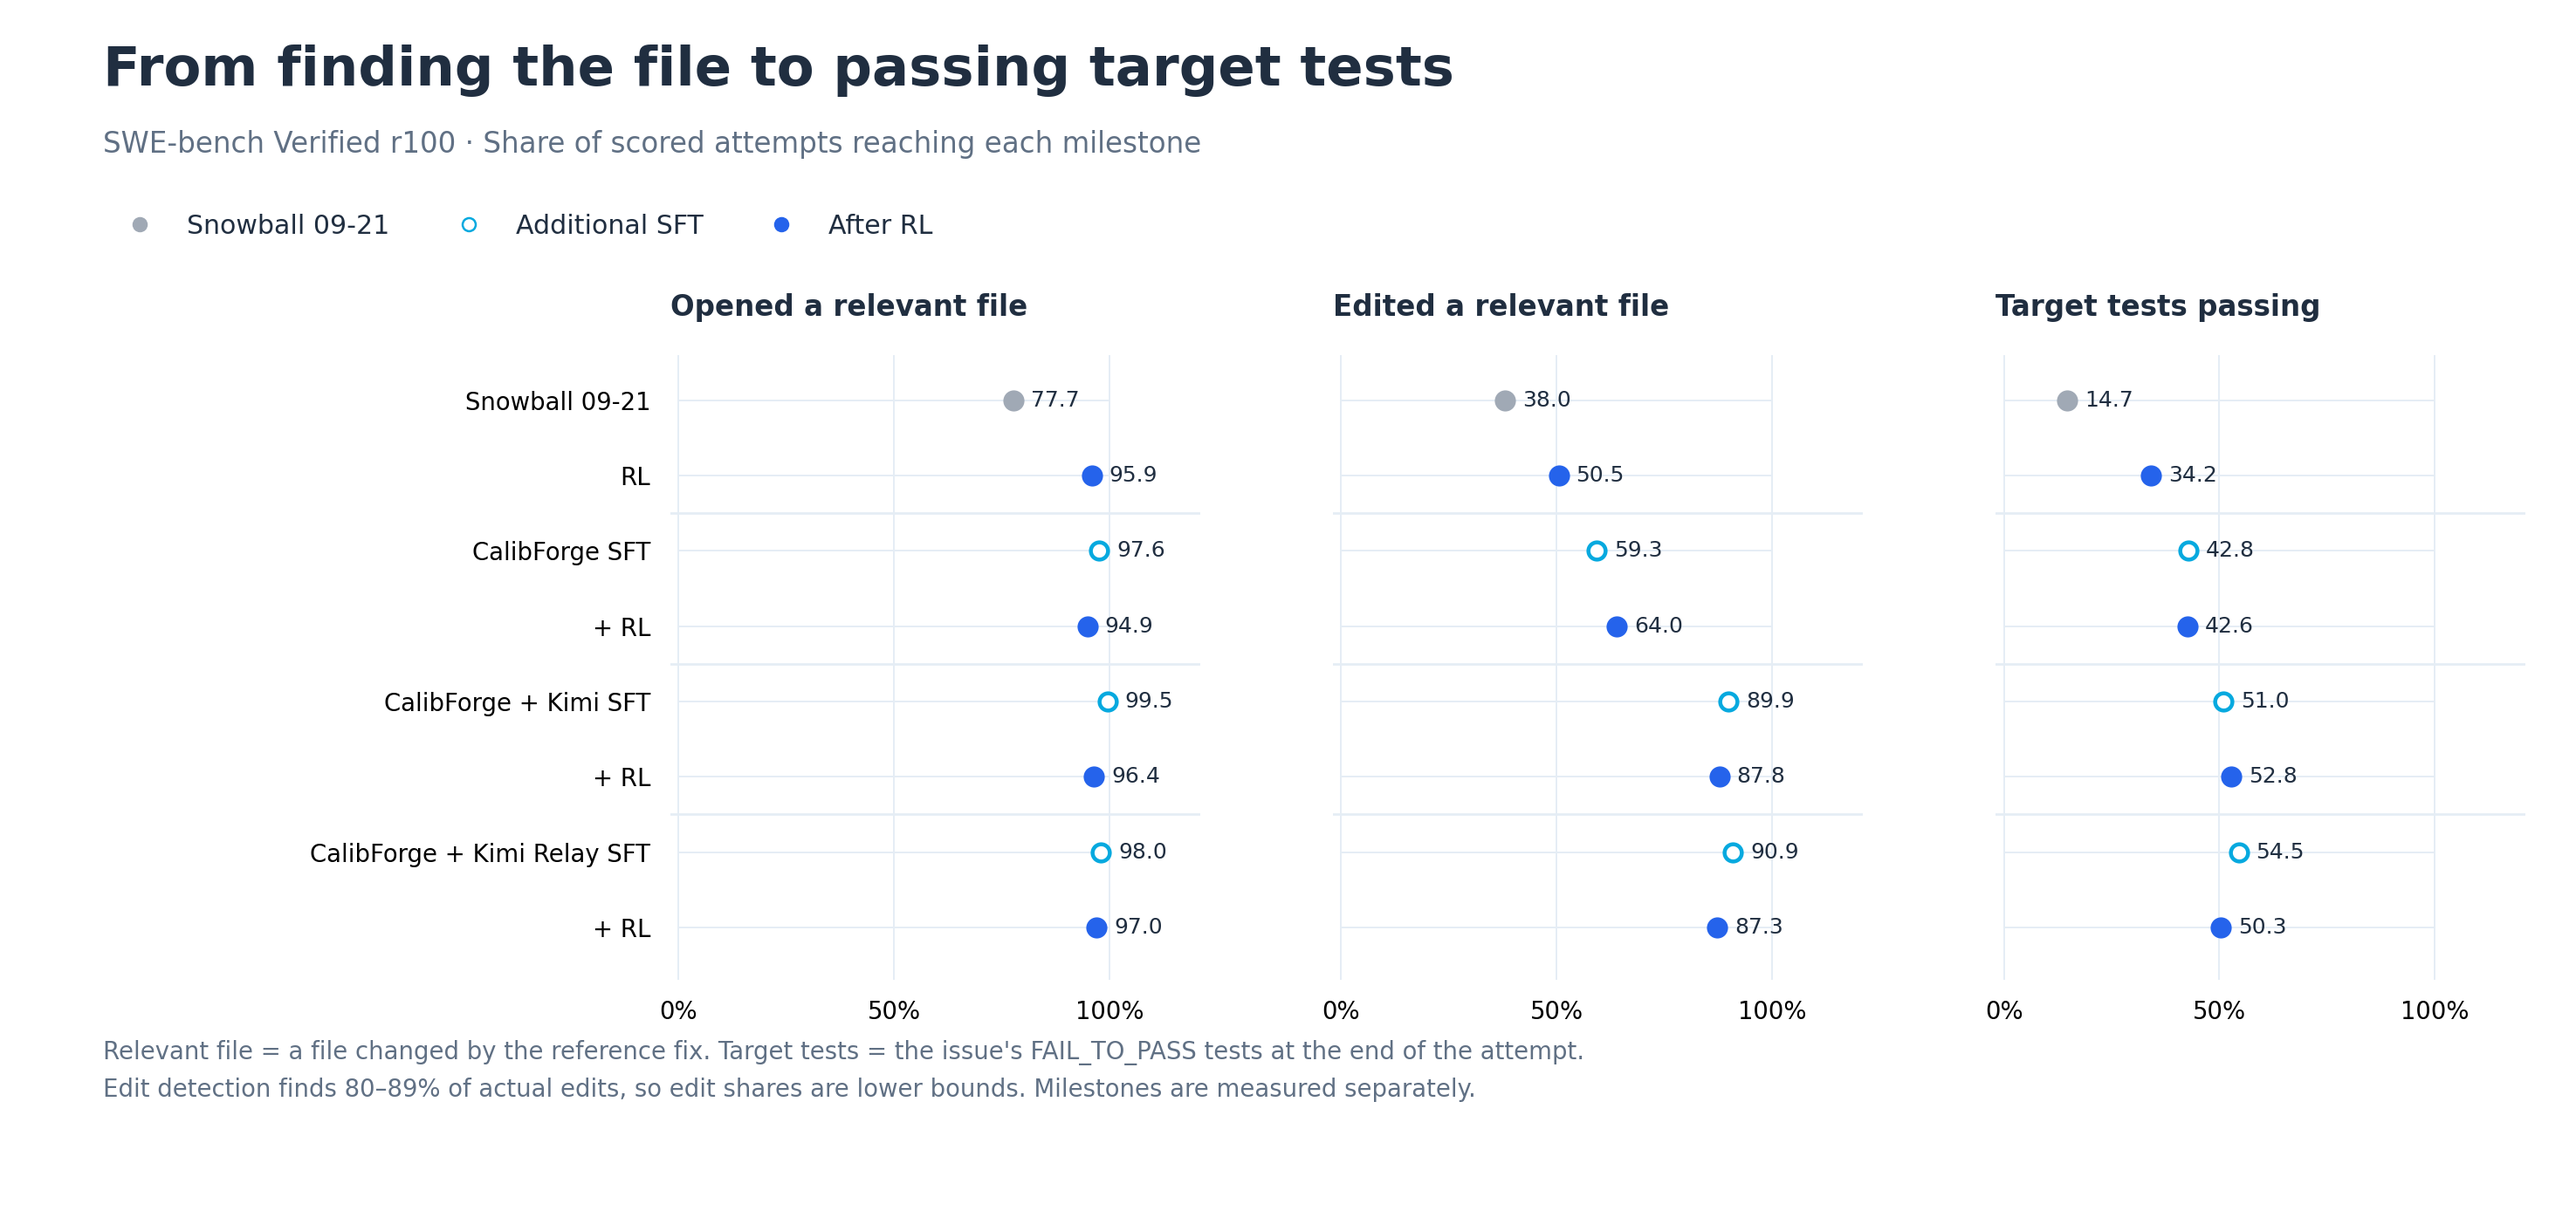
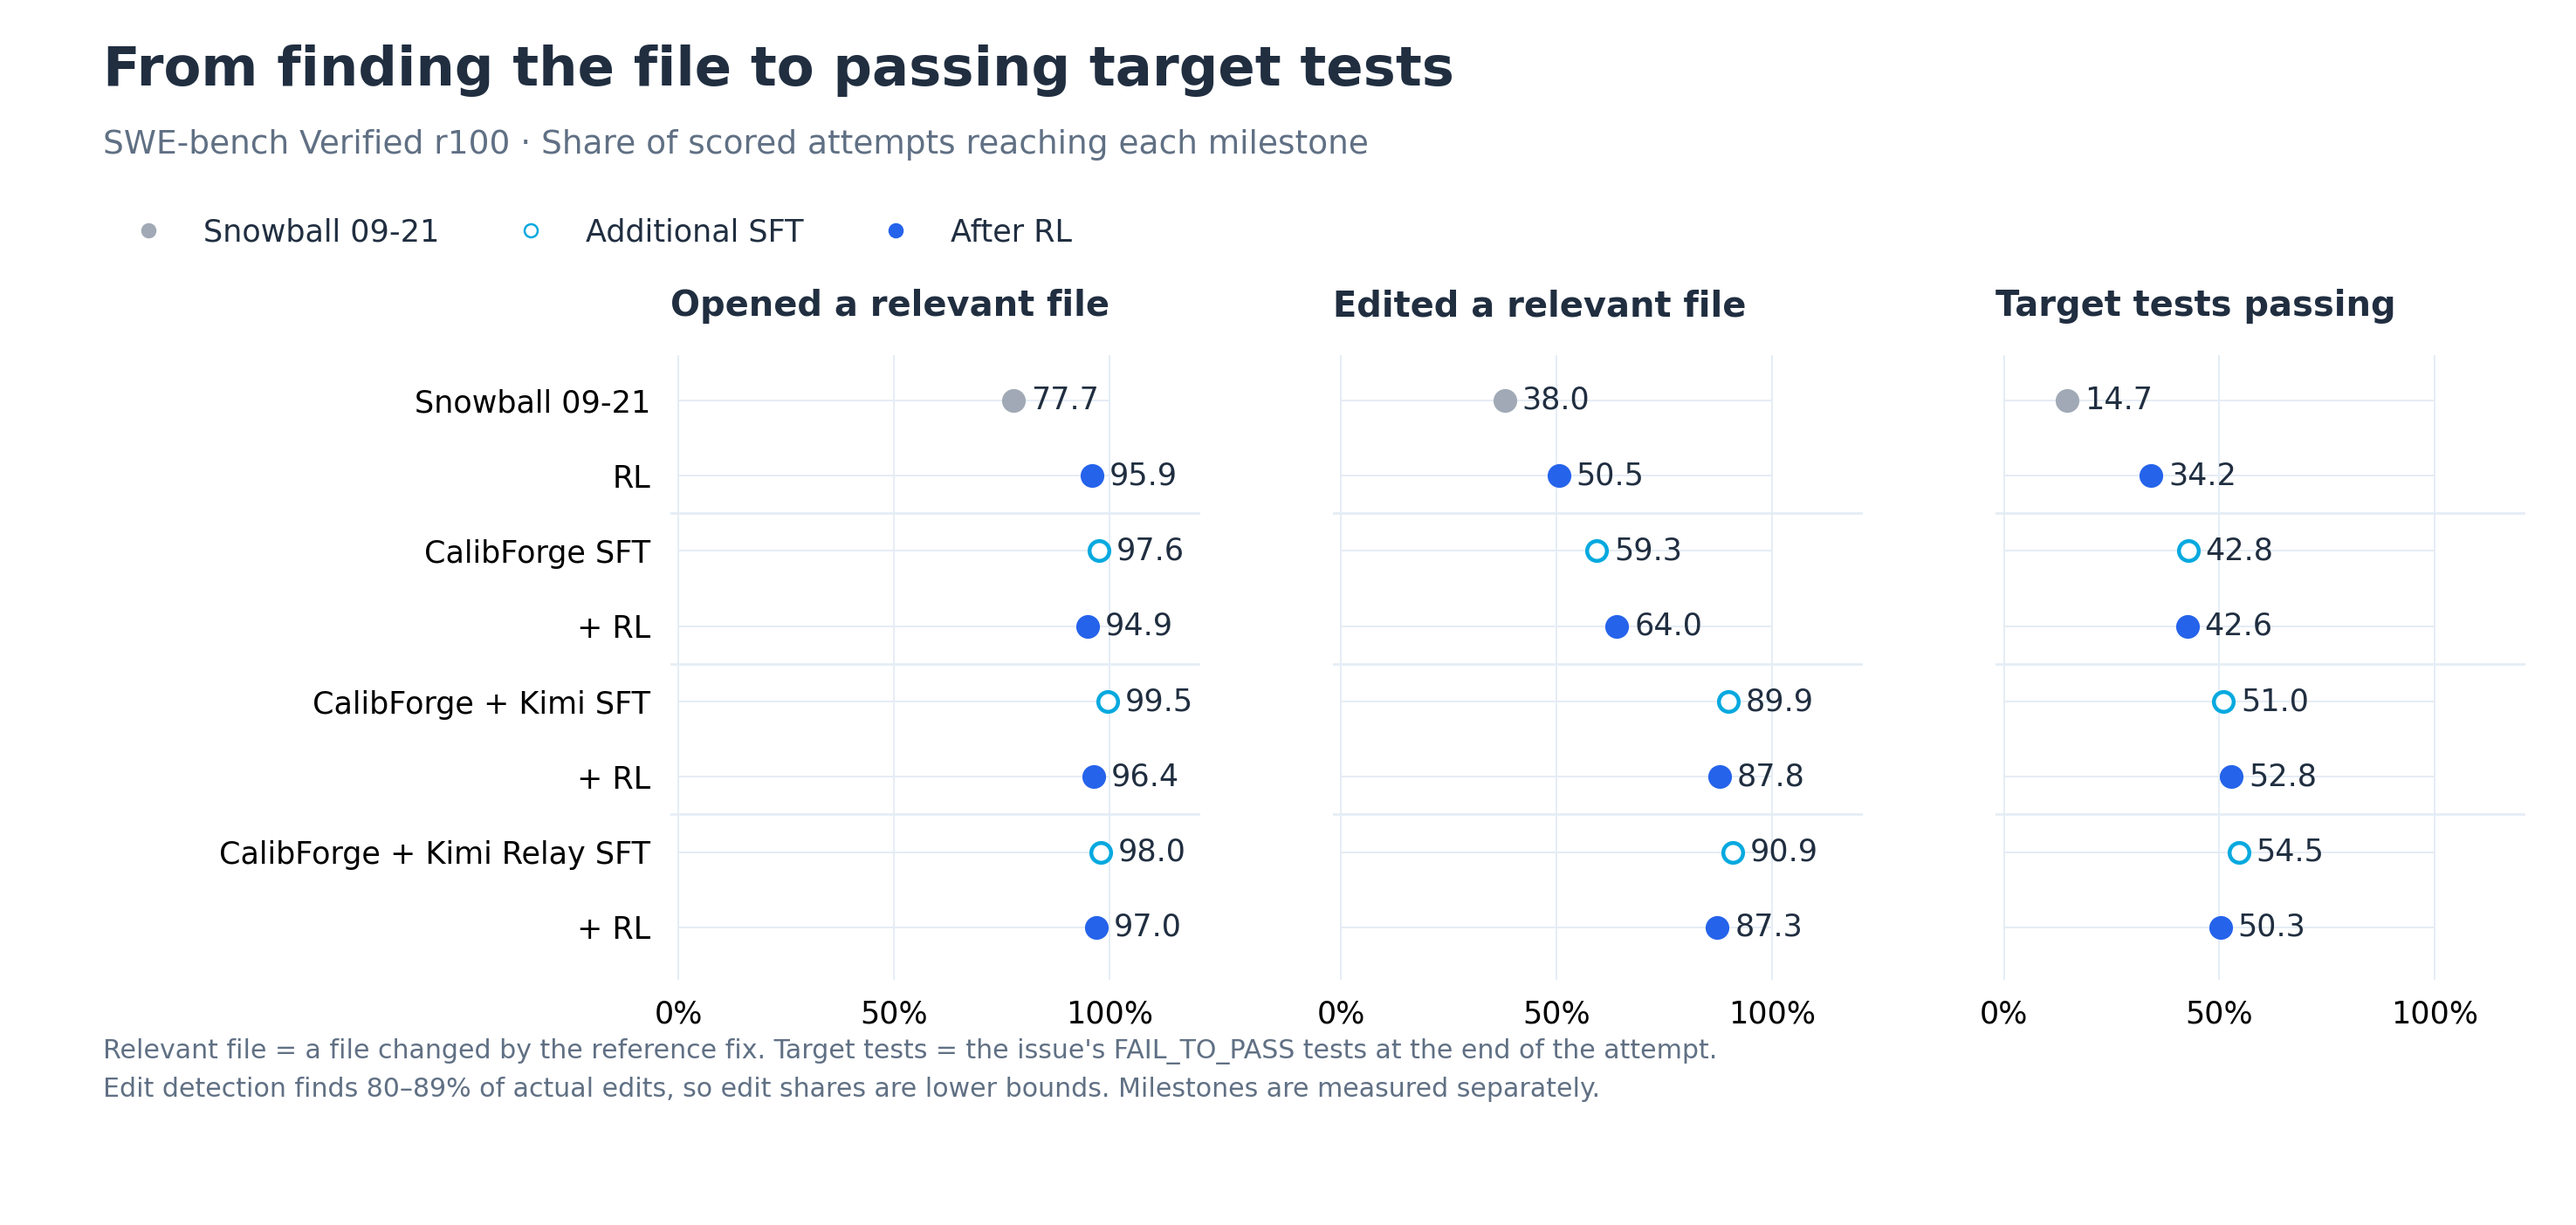
Enlarge trace figure typography and simplify section introduction

diff --git a/scripts/render_snowball_trace_analysis.py b/scripts/render_snowball_trace_analysis.py
@@ -119,30 +119,30 @@ def swe_steps():
     fig.subplots_adjust(left=.26, right=.98, bottom=.20, top=.71, wspace=.25)
     fig.text(.04, .93, "From finding the file to passing target tests", fontsize=25, weight="bold")
     fig.text(.04, .875, "SWE-bench Verified r100 · Share of scored attempts reaching each milestone",
-             fontsize=13, color=MUTED)
+             fontsize=15, color=MUTED)
     from matplotlib.lines import Line2D
     fig.legend(handles=[
         Line2D([], [], marker="o", ls="", color="#a0a9b5", label="Snowball 09-21"),
         Line2D([], [], marker="o", ls="", color=CYAN, markerfacecolor="white", label="Additional SFT"),
         Line2D([], [], marker="o", ls="", color=BLUE, label="After RL"),
-    ], loc="upper left", bbox_to_anchor=(.035, .845), ncol=3, frameon=False, fontsize=12)
+    ], loc="upper left", bbox_to_anchor=(.035, .845), ncol=3, frameon=False, fontsize=14)
     for col, (ax, title) in enumerate(zip(axes, [
         "Opened a relevant file", "Edited a relevant file", "Target tests passing",
     ])):
-        ax.set_title(title, loc="left", fontsize=13, weight="bold", pad=18)
+        ax.set_title(title, loc="left", fontsize=16, weight="bold", pad=18)
         for row, vals in enumerate(values):
             n = vals[col]
             after_rl = row % 2 == 1
             color = BLUE if after_rl else ("#a0a9b5" if row == 0 else CYAN)
             ax.hlines(row, 0, 100, color=LINE, linewidth=.8, zorder=0)
-            ax.scatter(n, row, s=62, facecolors=color if after_rl or row == 0 else "white",
+            ax.scatter(n, row, s=82, facecolors=color if after_rl or row == 0 else "white",
                        edgecolors=color, linewidths=1.8, zorder=3)
-            ax.text(n + 4, row, f"{n:.1f}", va="center", fontsize=10, color=INK)
+            ax.text(n + 4, row, f"{n:.1f}", va="center", fontsize=14, color=INK)
         ax.set_xlim(-2, 121)
         ax.set_ylim(7.7, -.6)
         ax.set_xticks([0, 50, 100], ["0%", "50%", "100%"])
         ax.set_yticks(range(8), labels)
-        ax.tick_params(axis="both", length=0, labelsize=11, pad=9)
+        ax.tick_params(axis="both", length=0, labelsize=14, pad=9)
         ax.grid(axis="x", color=LINE, linewidth=.8)
         ax.set_axisbelow(True)
         for spine in ax.spines.values():
@@ -151,7 +151,7 @@ def swe_steps():
             ax.axhline(y, color=LINE, linewidth=1.1)
     fig.text(.04, .105, "Relevant file = a file changed by the reference fix. Target tests = the issue's FAIL_TO_PASS tests at the end of the attempt.\n"
              "Edit detection finds 80–89% of actual edits, so edit shares are lower bounds. Milestones are measured separately.",
-             fontsize=11, color=MUTED, linespacing=1.6)
+             fontsize=12, color=MUTED, linespacing=1.6)
     save(fig, "trace-swe-steps")
 
 

diff --git a/_posts/2026-10-21-turning-snowball-into-a-coding-agent.md b/_posts/2026-10-21-turning-snowball-into-a-coding-agent.md
@@ -277,8 +277,6 @@ RL directly from the 09-21 starting checkpoint reached 30.5% on SWE-bench, 18.8%
 
 RL directly from Snowball 09-21 matched or came close to the SFT + RL models on terminal tasks, despite skipping the additional demonstrations. We wanted to understand what those demonstrations contributed. Did they teach new knowledge, or change how Snowball approached and executed the work? We used coding agents to compare trajectories and inspect where the two routes succeeded or failed.
 
-Here, **RL** means training directly from Snowball 09-21. **SFT + RL** means one of the three additional SFT recipes followed by RL. For the paired terminal-task reads, we compared newly solved tasks that the starting checkpoint had failed in at least two attempts.
-
 ### SFT’s advantage on SWE-bench
 
 On SWE-bench, additional coding-agent SFT with CalibForge + Kimi reached **46.5%**, compared with **30.5% for direct RL**. Following that SFT with RL brought the score to **47.0%**. The traces show where the stronger results went with better execution.
@@ -286,7 +284,7 @@ On SWE-bench, additional coding-agent SFT with CalibForge + Kimi reached **46.5%
 Both direct RL and Kimi SFT opened a file touched by the reference fix in about **96–99%** of attempts. The gap appeared afterward. Kimi SFT edited a relevant file in **90%** of attempts, compared with **51%** for direct RL, and left the target tests passing in **51%**, compared with **34%**. Snowball 09-21 started at 78% for opening a relevant file and 38% for editing one.
 
 <figure class="research-figure">
-<a href="{{ '/assets/img/snowball/trace-swe-steps.png?v=three-stages' | relative_url }}"><img src="{{ '/assets/img/snowball/trace-swe-steps.png?v=three-stages' | relative_url }}" alt="SWE-bench execution milestones. Snowball 09-21 opens a relevant file in 78 percent of scored attempts and edits one in 38 percent. Vanilla Kimi SFT reaches 99 and 90 percent respectively and leaves the target tests passing in 51 percent of scored attempts. Direct RL also improves editing and target-test success." width="2952" height="1404" loading="lazy"></a>
+<a href="{{ '/assets/img/snowball/trace-swe-steps.png?v=larger-labels' | relative_url }}"><img src="{{ '/assets/img/snowball/trace-swe-steps.png?v=larger-labels' | relative_url }}" alt="SWE-bench execution milestones. Snowball 09-21 opens a relevant file in 78 percent of scored attempts and edits one in 38 percent. Vanilla Kimi SFT reaches 99 and 90 percent respectively and leaves the target tests passing in 51 percent of scored attempts. Direct RL also improves editing and target-test success." width="2952" height="1404" loading="lazy"></a>
 <figcaption>Shares of scored attempts, rather than the task-averaged benchmark scores above. A relevant file is one changed by the reference fix. Edit detection finds 80–89% of actual edits, so that column is a lower bound. These milestones are measured separately, rather than as conditional probabilities.</figcaption>
 </figure>
 
